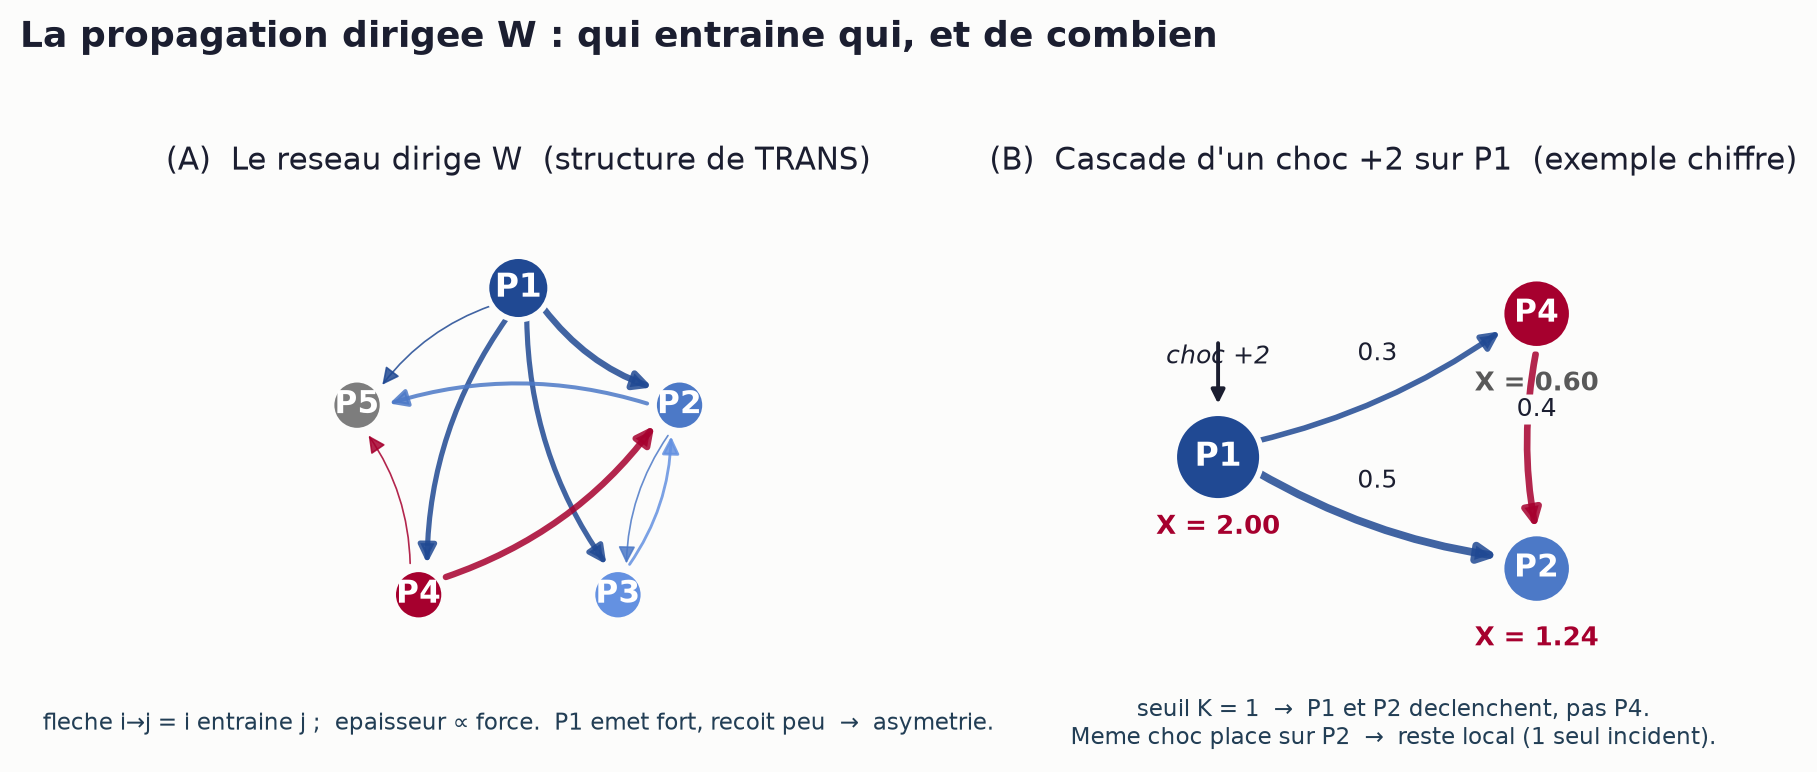
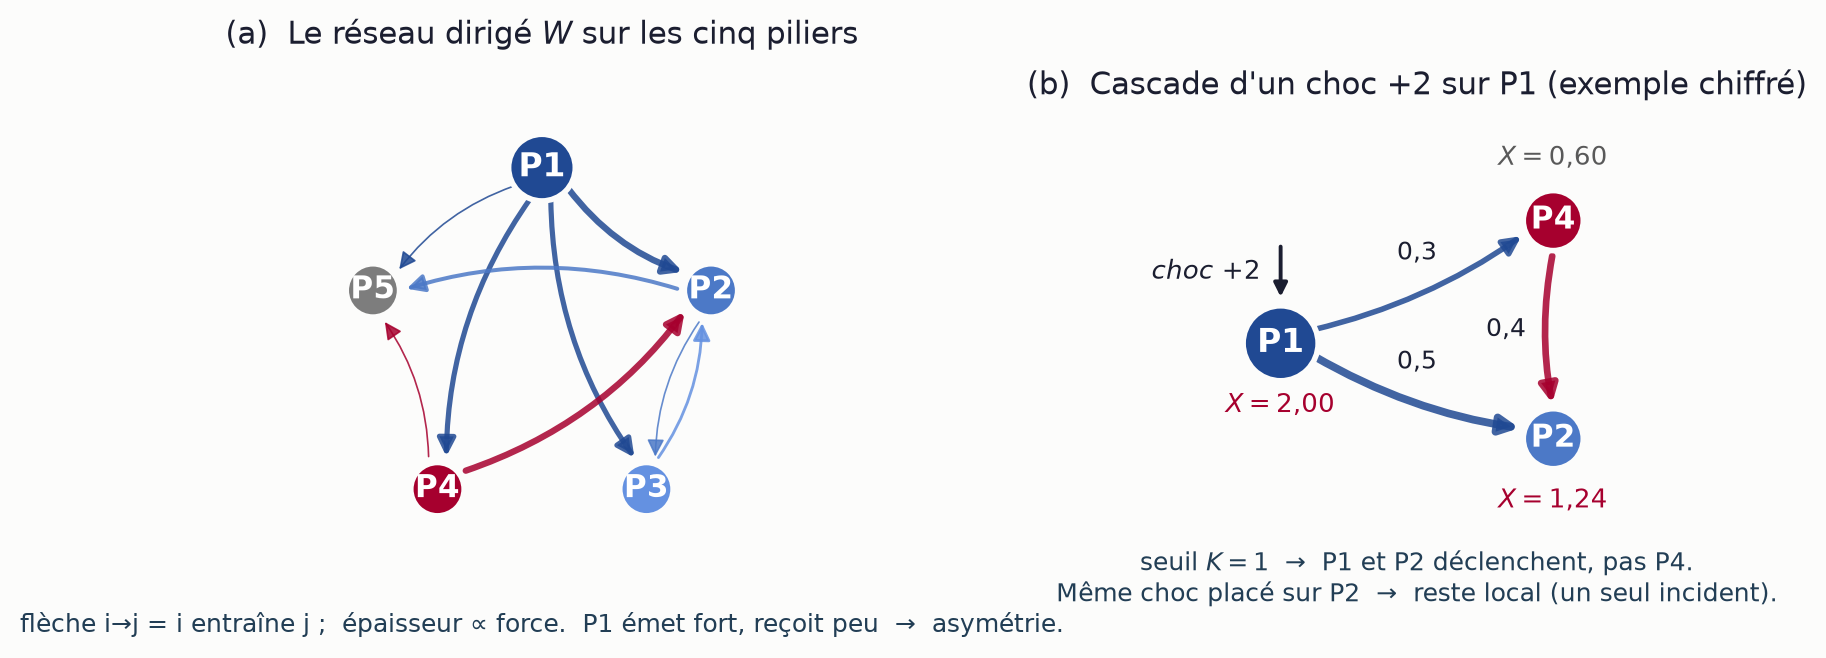
Les deux dernieres desynchronisations levees : H1 et Z22 regenerees
Ces deux scripts avaient ete modifies le 15 septembre sans que leur figure soit regeneree, et
ils etaient passes hors du lot parce qu'ils ne portaient pas de titre code. Le controle final,
qui compare la date de commit de chaque script a celle de sa figure, les a fait sortir.

H1 (reseau W) : la modification en attente s'applique, la figure passe de 7,8 a 6,7 cm.
Z22 (biais de narration) : figure inchangee en dimensions, et la legende du panneau (c), trop
large, cachait l'etiquette 169 ; ses deux entrees sont raccourcies. Sortie standard identique a
sorties_verif/64.txt.

Il ne reste aucun defaut corrigeable sur ce poste : les seize figures restantes sont toutes
bloquees par l'absence de data/raw (Z6, J2, J3, J4, J7, N2, S10, S16, S17, S20, S21, S34, Z14 et
les trois figures du notebook OpRisk). main_ensae 187 pages, 0 erreur, 6 debordements, 0 vbox,
0 renvoi non resolu.

diff --git a/exploratory/vasicek_lab/6_contagion/64_biais_narration.py b/exploratory/vasicek_lab/6_contagion/64_biais_narration.py
@@ -559,8 +559,8 @@ lo = np.array([bandes[a][1].min() for a in ALPHAS])
 hi = np.array([bandes[a][1].max() for a in ALPHAS])
 pts = np.array([bandes[a][0] for a in ALPHAS])
 ax3.vlines(xs, lo, hi, color=BLUE, lw=8, alpha=0.42)
-ax3.plot(xs, pts, "o-", color=ACCENT, lw=1.6, ms=6, label="point à la matrice retenue")
-ax3.plot(xs, lo, "_", color=BLUE, ms=13, label="bande d'identification (1 024 sommets)")
+ax3.plot(xs, pts, "o-", color=ACCENT, lw=1.6, ms=6, label="matrice retenue")
+ax3.plot(xs, lo, "_", color=BLUE, ms=13, label="bande d'identification")
 ax3.plot(xs, hi, "_", color=BLUE, ms=13)
 for x, p_, h in zip(xs, pts, hi):
     ax3.text(x, h * 1.012, f"{p_:,.0f}", ha="center", va="bottom", fontsize=8.2,
